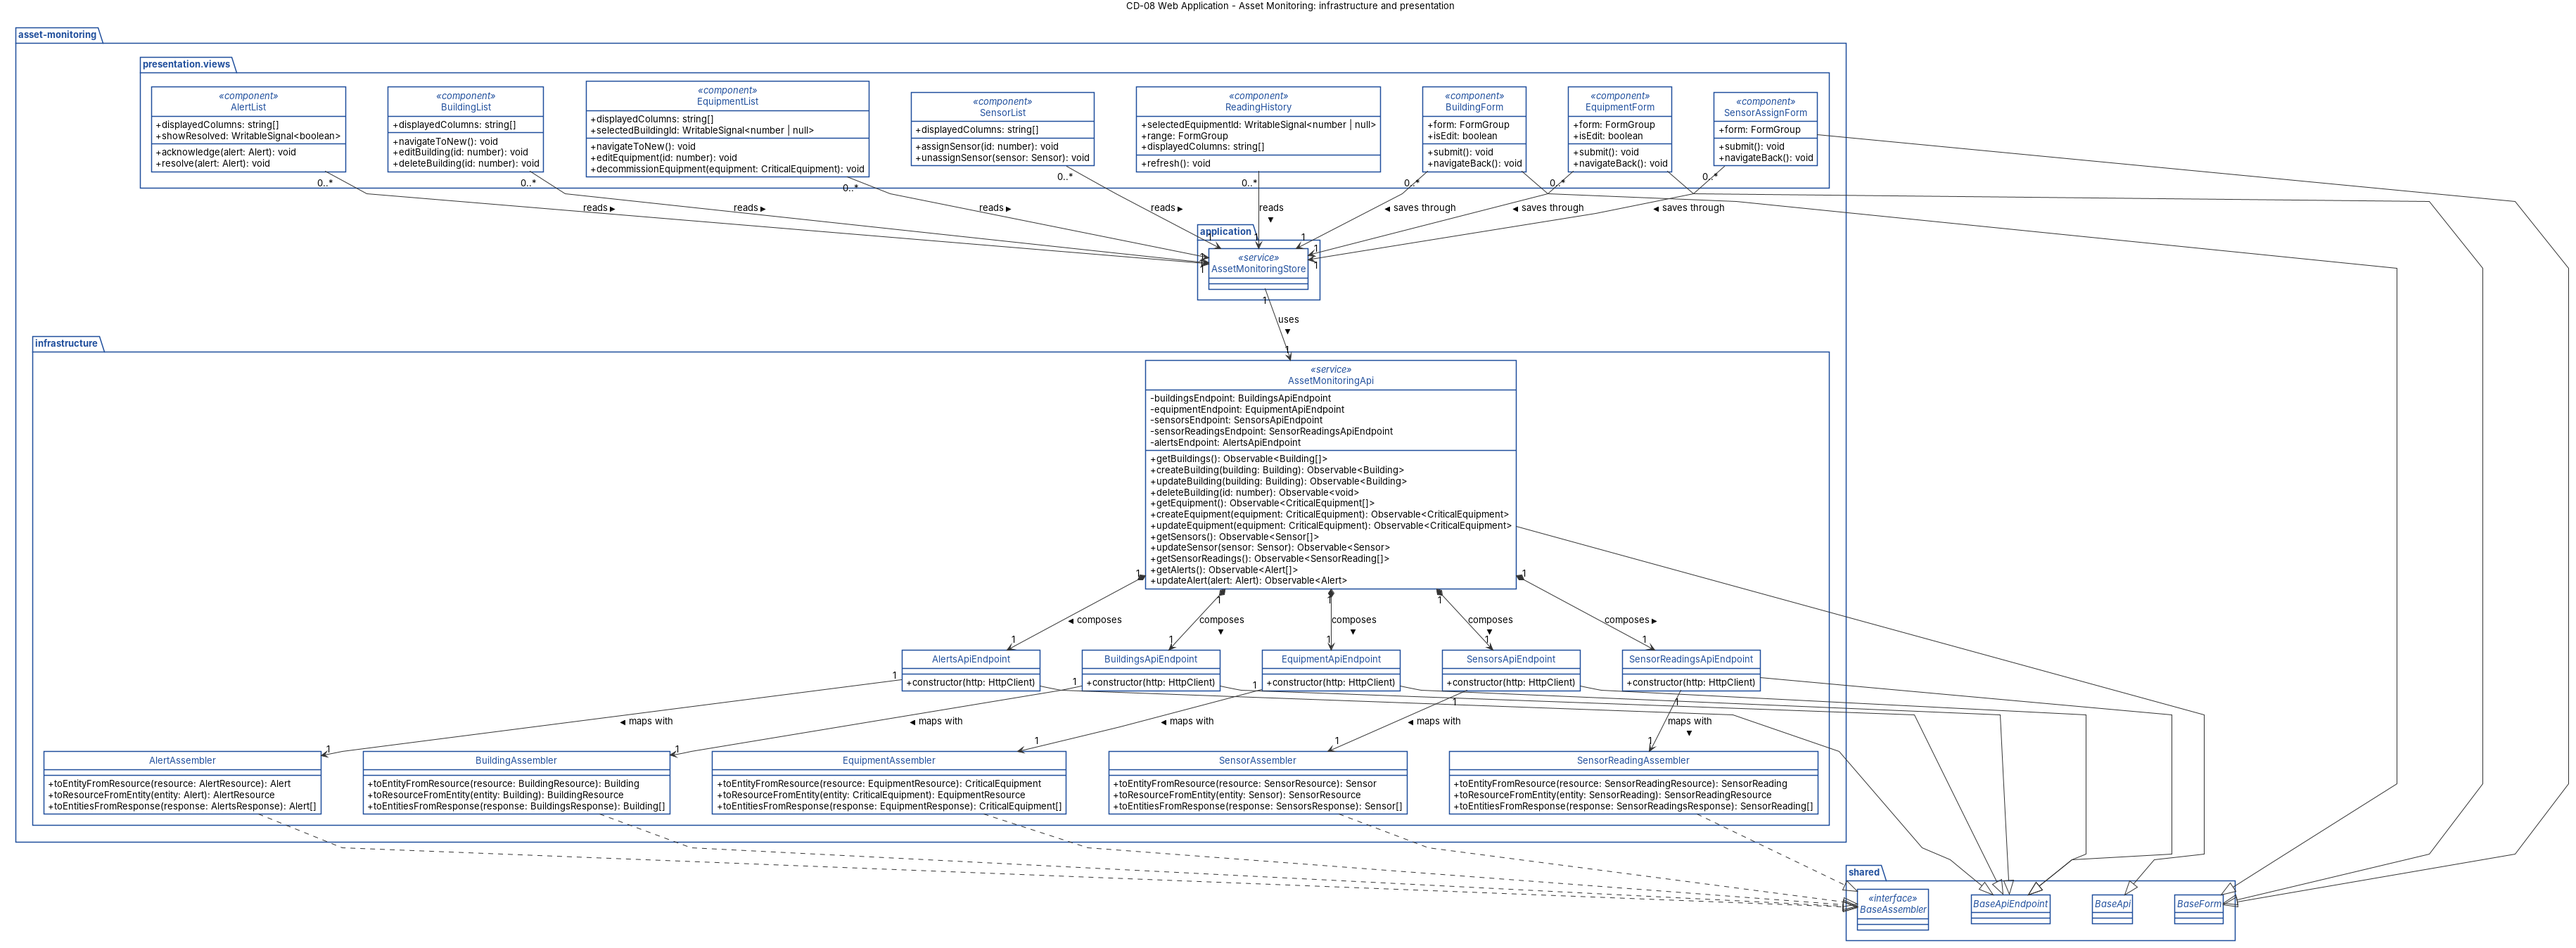
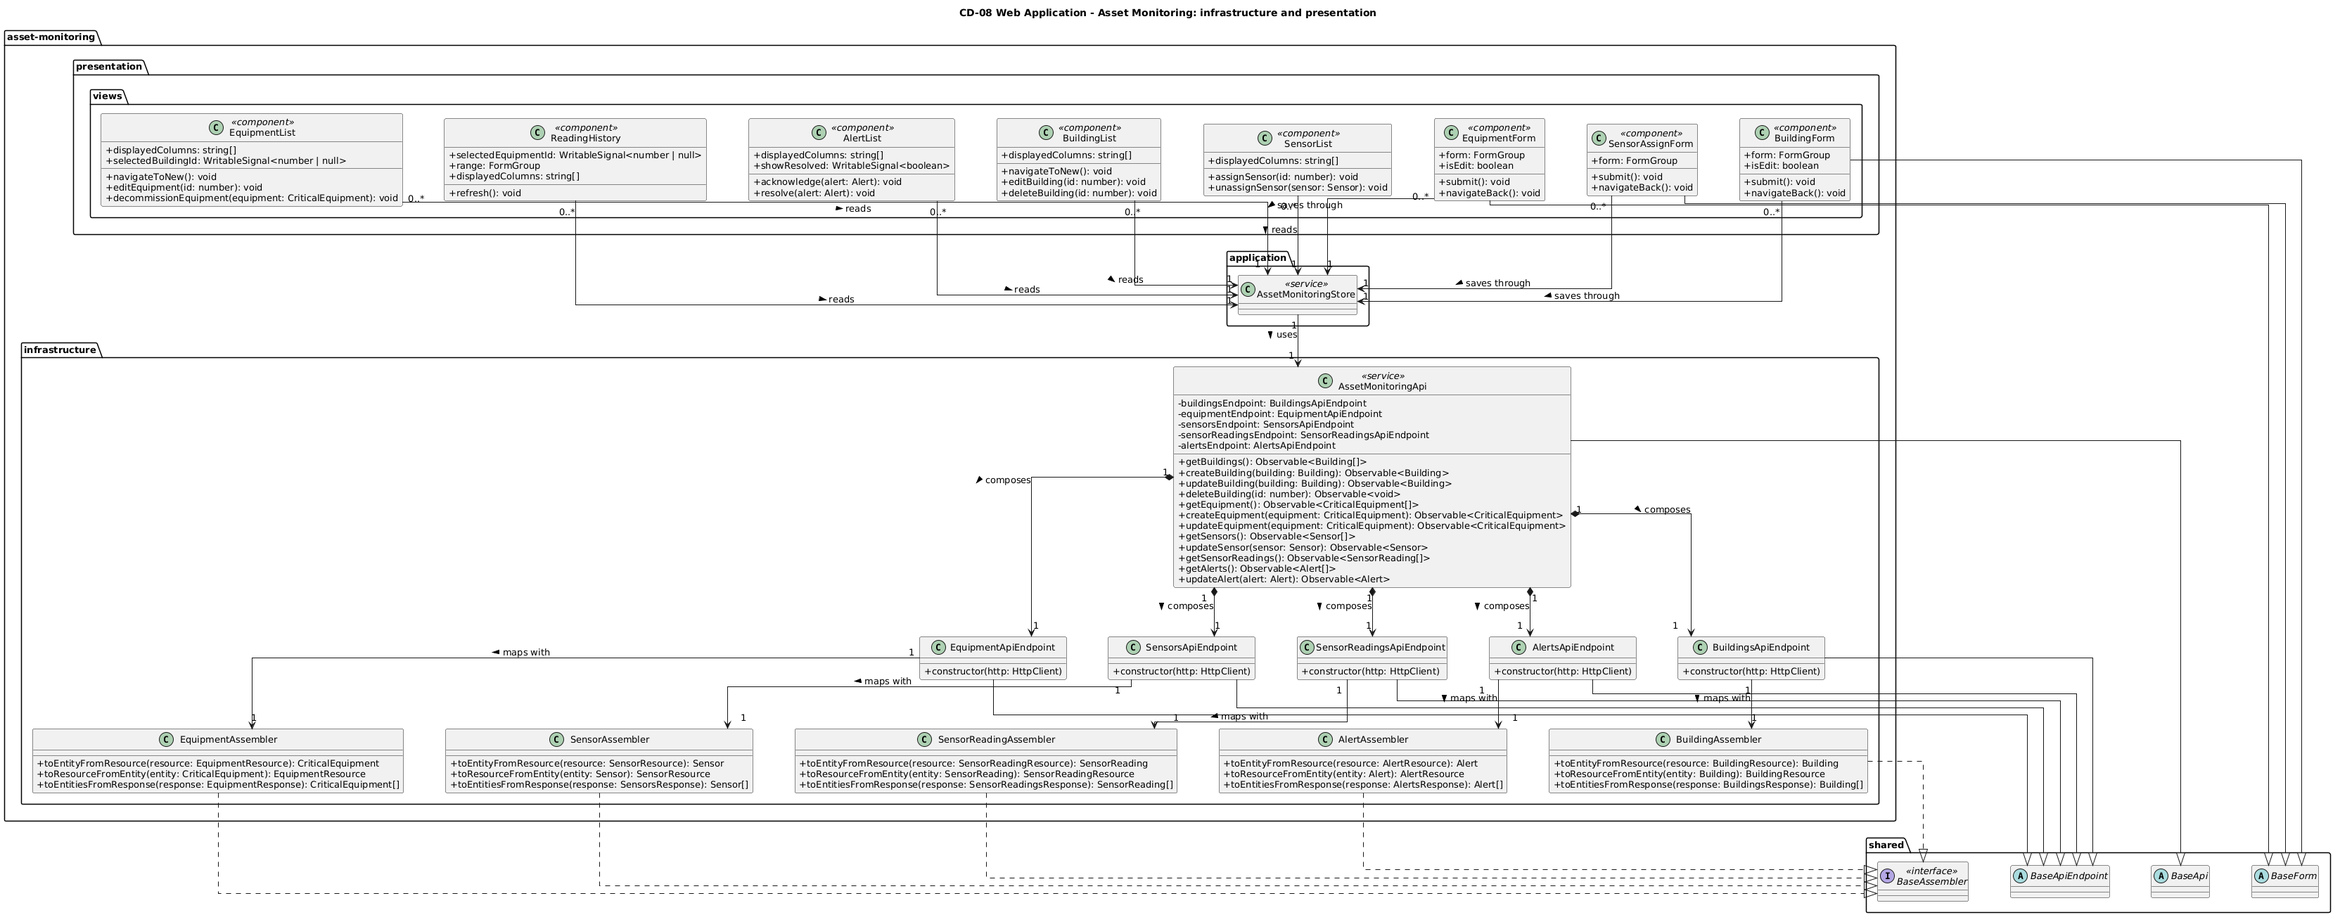
docs(chapter-5): update diagrams and fix typos

diff --git a/report/11-startup-profile.md b/report/11-startup-profile.md
@@ -18,4 +18,4 @@ Nuestro producto, Vigilia,  es una plataforma web que concentra el monitoreo y l
 | ![Foto de Valladolid Jiménez, Arturo Fernando](assets/team-arturo-valladolid.jpg) | Valladolid Jiménez, Arturo Fernando | u202420147 | Soy estudiante de Ingeniería de Software en quinto ciclo. En CodeNova soy el Team Leader: coordino los sprints, organizo el repositorio y el flujo de trabajo en Git, y me encargo de consolidar los informes de cada entrega. Vengo de cursar Algoritmos y Estructura de Datos, Diseño y Patrones de Software, Especificación y Análisis de Requerimientos, Diseño de Base de Datos y Arquitectura de Computadoras, formación que me deja una base para leer y construir diseño de software, no solo código. Manejo HTML, CSS y C++. Cursos como Organización y Dirección de Empresas y Creatividad y Liderazgo me ayudaron con la parte de coordinación, que es la que más pesa en mi rol. En este proyecto quiero sostener el ritmo del equipo y, de paso, dominar Spring Boot y Angular para aportar también en la implementación. |
 | ![Foto de Romero Veliz, Matthias Alonso](assets/team-matthias-romero.jpg) | Romero Veliz, Matthias Alonso | u20241b178 | Soy estudiante de Ingeniería de Software en quinto ciclo. En este proyecto planeo aportar de forma transversal a lo largo de todo el ciclo de vida del proyecto: desde el diseño y análisis de las entrevistas de Needfinding, la construcción de los User Personas, User Journey Maps y Empathy Maps, hasta la especificación de los User Stories, el Product Backlog y las decisiones de Product Design (Style Guidelines, arquitectura de información y UI del Landing Page y la Web Application). Cuento con conocimientos en diseño de software, algoritmos y estructuras de datos, y desarrollo web, lo que me permite moverme con soltura entre las etapas de investigación de usuarios, especificación de requisitos y diseño de producto. En este proyecto busco seguir fortaleciendo esa visión integral del ciclo de desarrollo, aportando tanto en la documentación como en la implementación técnica de CodeNova. |
 | ![Foto de Diaz Vargas, Fernanda Ysabella](assets/team-fernanda-diaz.jpg) | Diaz Vargas, Fernanda Ysabella | u202411843 | Soy estudiante de Ingeniería de Software en el sexto ciclo. En este trabajo CodeNova, me encargué del análisis y levantamiento de requisitos, liderando el Capítulo II. Desarrollé el análisis competitivo, la ejecución de entrevistas y la elaboración de los User Personas, User Journey Maps, Empathy Maps y el Event Storming. Mi experiencia en modelado de procesos y especificación de requisitos permitió traducir las necesidades de los usuarios en las bases del diseño de nuestro producto. |
-| ![Foto de Salazar Miranda, Mateo Paolo](assets/team-mateo-salazar.jpg) | Salazar Miranda, Mateo Paolo | u202315171 | [COMPLETAR: carrera y ciclo.] Soy un estudiante responsable y comprometido, con interés en el desarrollo de soluciones tecnológicas innovadoras. Tengo habilidades de trabajo en equipo, pensamiento analítico y resolución de problemas. |
+| ![Foto de Salazar Miranda, Mateo Paolo](assets/team-mateo-salazar.jpg) | Salazar Miranda, Mateo Paolo | u202315171 | Soy un estudiante responsable y comprometido, con interés en el desarrollo de soluciones tecnológicas innovadoras. Tengo habilidades de trabajo en equipo, pensamiento analítico y resolución de problemas. |

diff --git a/report/22-interviews.md b/report/22-interviews.md
@@ -118,7 +118,6 @@ Hicimos entrevistas semiestructuradas a los tres segmentos: dos administradoras,
 |:---|:---|
 | Nombre y apellidos | Hernando Diaz |
 | Edad | 61 años |
-| Distrito | <!-- TODO: distrito --> |
 | Ocupación | Trabajador de Empresa de Mantenimiento |
 | Inicio en el video | 11:12 |
 | Duración | 07:58 |
@@ -133,7 +132,7 @@ Hicimos entrevistas semiestructuradas a los tres segmentos: dos administradoras,
 |:---|:---|
 | Nombre y apellidos | Valeria Rojas |
 | Edad | 30 años |
-| Distrito | <!-- TODO: distrito --> |
+| Distrito | Chorrillos |
 | Ocupación | Coordinadora de Operaciones y Servicio Técnico |
 | Inicio en el video | 19:10 |
 | Duración | 06:52 |
@@ -148,7 +147,6 @@ Hicimos entrevistas semiestructuradas a los tres segmentos: dos administradoras,
 |:---|:---|
 | Nombre y apellidos | Diego Rances |
 | Edad | 30 años |
-| Distrito | <!-- TODO: distrito --> |
 | Ocupación | Técnico / responsable de campo, empresa de mantenimiento de bombas y sistemas eléctricos |
 | Inicio en el video | 26:02 |
 | Duración | 04:09 |

diff --git a/report/46-domain-driven-software-architecture.md b/report/46-domain-driven-software-architecture.md
@@ -21,7 +21,7 @@ Vigilia es un monolito modular: un solo REST API con un paquete por contexto. El
 
 ### 4.6.1. Design-Level Event Storming
 
-Realizamos la sesión en Miro. Para cada evento identificamos el comando que lo provoca, el actor, el agregado que valida la regla y las consultas que el usuario necesita antes de decidir. <!-- TODO: fecha y duración de la sesión en Miro --> Las capturas muestran una vista general con los eventos clave, una vista por cada contexto core y una vista que junta Notifications e IAM.
+Realizamos la sesión en Miro. Para cada evento identificamos el comando que lo provoca, el actor, el agregado que valida la regla y las consultas que el usuario necesita antes de decidir. Las capturas muestran una vista general con los eventos clave, una vista por cada contexto core y una vista que junta Notifications e IAM.
 
 ![Figura 4.6.1-1 – Design-Level Event Storming: eventos clave de Vigilia](assets/DLStorming_1.jpg)
 

diff --git a/report/43-landing-page-ui-design.md b/report/43-landing-page-ui-design.md
@@ -9,8 +9,6 @@ El Landing Page tiene que explicar en pocos segundos qué hace Vigilia: anticipa
 
 La página sigue un orden de lectura: propuesta de valor, funciones, cómo funciona, planes, el equipo y contacto. En TB1 cambiamos el llamado a la acción principal. En el AV1 era "Solicitar demo"; ahora es "Go to app" y lleva a la Web Application, como pide el statement. El sitio está en inglés por defecto.
 
-<!-- TODO (P2): reemplazar los wireframes y mock-ups por la versión en inglés con el botón "Go to app" -->
-
 ### 4.3.1. Landing Page Wireframe
 
 **Desktop Web Browser.** El primer bloque tiene el titular, una frase corta, los dos botones de acción y tres datos rápidos (edificios activos, alertas por mes y satisfacción). A la derecha va una vista previa del estado de los equipos. Debajo vienen los tres pasos del servicio: instalar sensores, recibir alertas priorizadas y ahorrar en mantenimiento.

diff --git a/report/47-software-object-oriented-design.md b/report/47-software-object-oriented-design.md
@@ -51,7 +51,7 @@ User guarda el rol: administrador, residente, representante de empresa de manten
 
 Las entidades usan campos privados `#` con get y set públicos, y guardan las reglas simples. Por ejemplo, `CriticalEquipment.decommission()` cambia el estado a DECOMMISSIONED sin borrar el equipo, y `Sensor.assignTo()` lanza un error si el sensor ya tiene equipo. `AssetMonitoringStore` es el único store del contexto: guarda el estado en signals y expone `activeAlerts`, ordenadas de mayor a menor severidad.
 
-![Figura 4.7.1-7 – Class Diagram de Web Application: Asset Monitoring, domain y application](assets/cd-07-web-asset-monitoring.png)
+![Figura 4.7.1-7 – Class Diagram de Web Application: Asset Monitoring, domain y application](assets/cd-07-web-asset-monitoring-mode.png)
 
 #### CD-08. Web Application: Asset Monitoring (infrastructure y presentation)
 

diff --git a/report/54-sprint-2.md b/report/54-sprint-2.md
@@ -170,8 +170,6 @@ Si el usuario escribe una ruta que no existe, la aplicación muestra la vista 40
 
 ![Figura 5.2.2-15 – Vista de página no encontrada](assets/s2-not-found.png)
 
-Video de navegación del Sprint 2: <!-- TODO: URL del video en Microsoft Stream -->
-
 #### 5.2.2.6. Services Documentation Evidence for Sprint Review
 
 En este sprint todavía no hay RESTful API, así que no hay documentación OpenAPI. Lo que sí documentamos son los endpoints del fake API que consume la Web Application. Son los mismos recursos, verbos y nombres de campos que tendrá el RESTful API en el Sprint 3 (sección 4.6.4). Así el cambio al API real solo afecta la URL base.

diff --git a/report/44-web-applications-ux-ui-design.md b/report/44-web-applications-ux-ui-design.md
@@ -67,8 +67,6 @@ Los wireflows combinan los wireframes con la secuencia de pasos que sigue el usu
 
 ![Figura 4.4.2-2 – Wireflow: registro de equipo y asignación de sensor](assets/wireflow-02.png)
 
-<!-- TODO (P2): actualizar el wireflow 2 en Figma; la imagen todavía muestra la asociación del sensor desde la ficha del equipo -->
-
 **Wireflow 3: Programación y confirmación de una visita preventiva**
 
 - **User goal:** Como administrador, al recibir una alerta, quiero programar una visita con la empresa de mantenimiento y que esta la confirme, para intervenir antes de que la falla se agrave.

diff --git a/report/32-impact-mapping.md b/report/32-impact-mapping.md
@@ -1,6 +1,6 @@
 ---
 title: "Impact Mapping"
-author: "[COMPLETAR: autor principal]"
+author: "Diaz, Fernanda"
 ---
 
 ## 3.2. Impact Mapping
